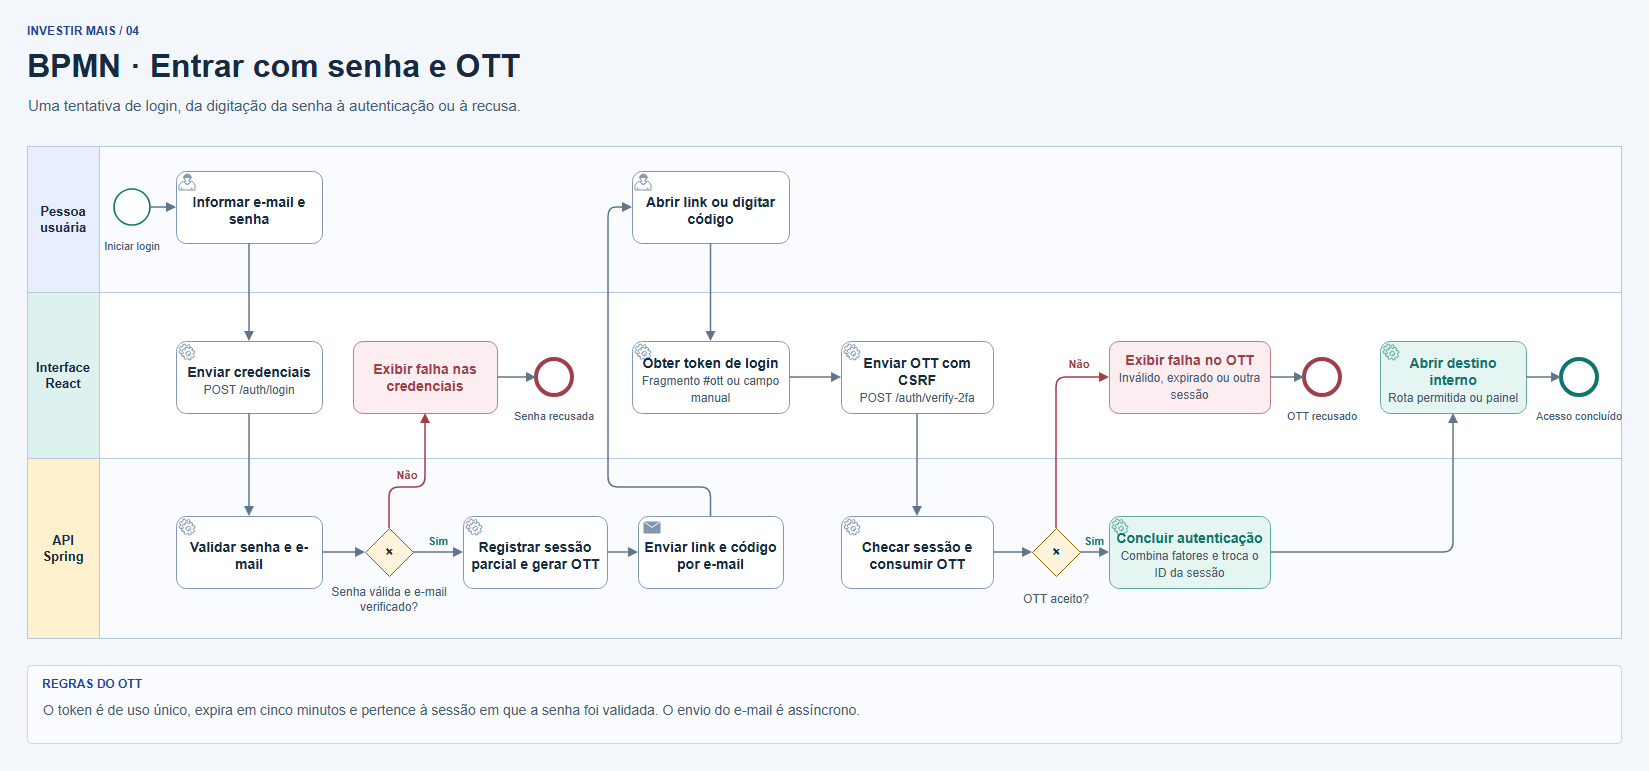
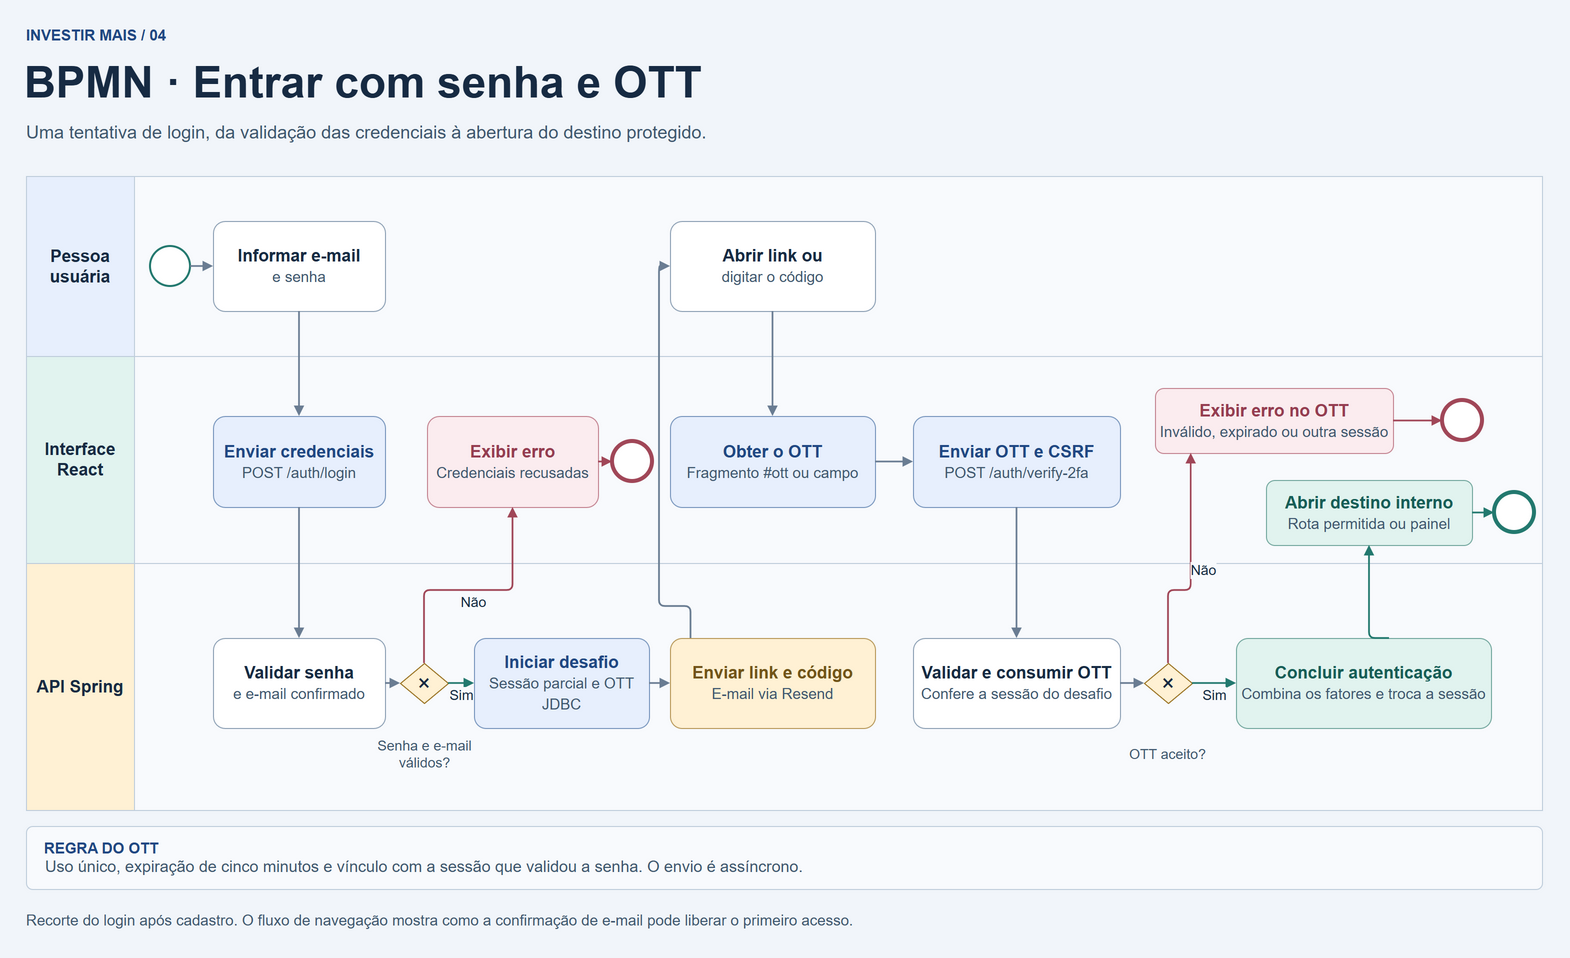
docs: add project diagrams and architecture documentation

diff --git a/docs/diagrama-de-classes.md b/docs/diagrama-de-classes.md
@@ -1,72 +1,38 @@
 # Diagramas do Investir Mais
 
-Os diagramas de domínio e acesso também aparecem no [README principal](../README.md#diagramas).
+Abra o [arquivo editável do Draw.io](diagramas/investir-mais.drawio) e selecione uma das cinco abas. O [README principal](../README.md#diagramas) inclui prévias dos cinco diagramas.
 
 | Diagrama | O que mostra |
 | --- | --- |
-| [Classes de domínio](diagramas/classes-de-dominio.png) | Entidades JPA, atributos, multiplicidades e regras de persistência. |
-| [BPMN de acesso](diagramas/bpmn-login-ott.png) | Uma tentativa de login com senha e token de uso único (OTT). |
+| [01 · Classes de domínio](diagramas/classes-de-dominio.png) | Entidades JPA, perfis, matrículas, progresso e regras de persistência. |
+| [02 · Classes da aplicação](diagramas/classes-da-aplicacao.png) | Dependências de conta, educação e envio de e-mails. |
+| [03 · Fluxo de navegação](diagramas/fluxo-de-navegacao.png) | Cadastro, primeiro acesso, login e páginas por perfil. |
+| [04 · BPMN de acesso](diagramas/bpmn-login-ott.png) | Uma tentativa de login com senha e token de uso único (OTT). |
+| [05 · Diagrama de arquitetura](diagramas/arquitetura.png) | Frontend, API, dados, e-mails e implantação de referência. |
 
 O diagrama de acesso usa BPMN 2.0 para documentar o processo. [Especificação BPMN 2.0.2 da OMG](https://www.omg.org/spec/BPMN/2.0.2/)
 
 ## Classes de domínio
 
-```mermaid
-classDiagram
-    direction LR
-
-    class User {
-        -UUID id
-        -String name
-        -Integer age
-        -String email
-        -String password
-        -UserRole role
-        -boolean emailVerified
-        -LocalDateTime deletedAt
-        -LocalDateTime createdAt
-        -LocalDateTime lastModifiedAt
-    }
-
-    class UserRole {
-        <<enumeration>>
-        ADMIN
-        TEACHER
-        STUDENT
-    }
-
-    class Course {
-        -UUID id
-        -String name
-        -String description
-        -LocalDateTime createdAt
-        -LocalDateTime updatedAt
-    }
-
-    class Lesson {
-        -UUID id
-        -String title
-        -String description
-        -String mediaUrl
-        -String thumbnailUrl
-    }
-
-    User "1" -- "0..*" Course : professor / courses
-    Course "1" -- "0..*" Lesson : course / lessons
-    User ..> UserRole : role
-```
-
 Cada curso referencia um usuário proprietário. Cada aula referencia um curso. A exclusão lógica se propaga de usuário para cursos e de curso para aulas. A senha é armazenada como hash Argon2 e fica fora da auditoria do Hibernate Envers. [User](../src/main/java/com/repositorio/investir_mais/domain/user/model/User.java), [Course](../src/main/java/com/repositorio/investir_mais/domain/education/model/Course.java), [Lesson](../src/main/java/com/repositorio/investir_mais/domain/education/model/Lesson.java)
+
+Matrículas e progresso pertencem a `User` e são persistidos como coleções de valores embutíveis. A matrícula é indexada por curso e a conclusão por aula. [User](../src/main/java/com/repositorio/investir_mais/domain/user/model/User.java)
+
+## Classes da aplicação
+
+O `UserController` atende o painel do professor com apoio de `CourseService`. O `AuthenticationEmailHandler` recebe os eventos de conta, monta as mensagens e as envia por meio do `ResendEmailSender`. [UserController](../src/main/java/com/repositorio/investir_mais/domain/user/controller/UserController.java), [AuthenticationEmailHandler](../src/main/java/com/repositorio/investir_mais/infrastructure/AuthenticationEmailHandler.java)
 
 ## Navegação e permissões
 
 O React Router consulta `/auth/me` antes de liberar a área protegida. Em caso de sessão ausente ou incompleta, a interface redireciona para o login com a rota de retorno. Após o OTT, abre o destino interno permitido ou o painel padrão. O cadastro público cria contas de aluno e exige confirmação de e-mail. [Rotas React](../frontend/investirMais/src/App.jsx), [Tela de login](../frontend/investirMais/src/pages/Login.jsx), [UserService](../src/main/java/com/repositorio/investir_mais/domain/user/service/UserService.java)
 
+Quando a pessoa confirma o link original no navegador do cadastro, a aplicação inicia a primeira sessão e abre o painel. Em outro navegador ou com um link reenviado, a confirmação libera o login. [UserController](../src/main/java/com/repositorio/investir_mais/domain/user/controller/UserController.java)
+
 | Perfil | O que pode fazer no catálogo |
 | --- | --- |
-| Aluno (`STUDENT`) | Consultar cursos e abrir aulas. |
-| Professor (`TEACHER`) | Consultar o catálogo, criar cursos e gerenciar os próprios cursos e suas aulas. |
-| Admin (`ADMIN`) | Consultar o catálogo, criar cursos e gerenciar os cursos e aulas de qualquer proprietário. |
+| Aluno (`STUDENT`) | Consultar cursos, matricular-se e registrar a conclusão de aulas. |
+| Professor (`TEACHER`) | Gerenciar os próprios cursos e aulas e acompanhar indicadores. |
+| Admin (`ADMIN`) | Gerenciar o catálogo e os usuários. |
 
 Os três perfis usam o mesmo painel. A interface exibe as ações de acordo com o perfil e a propriedade, e o backend aplica as mesmas verificações nas operações de escrita. [Ações do catálogo](../frontend/investirMais/src/services/educationData.js), [CourseService](../src/main/java/com/repositorio/investir_mais/domain/education/service/CourseService.java), [LessonService](../src/main/java/com/repositorio/investir_mais/domain/education/service/LessonService.java)
 
@@ -75,3 +41,11 @@ Os três perfis usam o mesmo painel. A interface exibe as ações de acordo com 
 O BPMN usa três raias para mostrar as responsabilidades da pessoa usuária, do React e da API Spring. A API valida a senha e o e-mail verificado, registra o desafio na sessão parcial e dispara o envio de um link e um código por e-mail. A pessoa abre o link no navegador em que começou o login ou informa o código na tela. As duas opções chamam `POST /auth/verify-2fa` com proteção CSRF. O Spring consome o token válido, conclui a autenticação e troca o identificador da sessão. [SecurityConfig](../src/main/java/com/repositorio/investir_mais/infrastructure/SecurityConfig.java), [AuthenticationEmailHandler](../src/main/java/com/repositorio/investir_mais/infrastructure/AuthenticationEmailHandler.java), [Login.jsx](../frontend/investirMais/src/pages/Login.jsx)
 
 O recorte termina quando o acesso é concluído ou quando as credenciais ou o OTT são recusados. A etapa de abertura pressupõe que a mensagem chegou. O [fluxo de navegação](../README.md#fluxo-de-navegação) descreve o primeiro acesso após o cadastro.
+
+## Arquitetura
+
+O frontend React chama a API Spring Boot. O PostgreSQL armazena os dados do domínio, os tokens e as publicações de eventos. O Redis mantém sessões e contadores de autenticação. A API envia e-mails via Resend, e o navegador carrega o player das aulas diretamente do YouTube. [Configuração da aplicação](../src/main/resources/application.properties), [Cliente Resend](../src/main/java/com/repositorio/investir_mais/infrastructure/ResendEmailSender.java)
+
+O proxy Caddy no Railway é a implantação de referência descrita na [PR #45](https://github.com/GabrielYYM/INVESTIR-MAIS/pull/45).
+
+Os ícones de tecnologia estão incorporados ao arquivo editável. [Simple Icons](https://github.com/simple-icons/simple-icons), [Devicon](https://github.com/devicons/devicon)

diff --git a/README.md b/README.md
@@ -54,13 +54,19 @@ INVESTIR-MAIS/
 
 ## Diagramas
 
-Os diagramas do domínio e do login podem ser abertos em tamanho original. A [documentação da arquitetura](docs/diagrama-de-classes.md) relaciona cada visão ao código.
+O [arquivo editável do Draw.io](docs/diagramas/investir-mais.drawio) reúne cinco abas com as classes de domínio, as classes da aplicação, a navegação, o BPMN do login e a arquitetura. A [documentação dos diagramas](docs/diagrama-de-classes.md) relaciona cada visão ao código.
+
+### Arquitetura
+
+[![Arquitetura do Investir Mais com React, Spring Boot, PostgreSQL, Redis e Resend](docs/diagramas/arquitetura.png)](docs/diagramas/arquitetura.png)
 
 ### Fluxo de navegação
 
 - O cadastro público cria uma conta de aluno. Ao confirmar o e-mail original no navegador do cadastro, o usuário entra no painel. Em outro navegador, ou com um link reenviado, a página confirma a conta e oferece o login. A recuperação usa um código separado para definir a nova senha.
 - Uma rota protegida verifica a sessão com `GET /auth/me`. Sem acesso, o React redireciona ao login e guarda a rota solicitada. Após os dois fatores, o navegador abre um destino interno permitido ou o painel.
 - A área autenticada oferece painel, catálogo, curso, aula e perfil. Professor e administrador veem ações de gestão conforme suas permissões. A saída encerra a sessão no backend.
+
+[![Fluxo de navegação do cadastro e login à área autenticada](docs/diagramas/fluxo-de-navegacao.png)](docs/diagramas/fluxo-de-navegacao.png)
 
 ### BPMN do login com senha e OTT
 
@@ -75,15 +81,18 @@ Os diagramas do domínio e do login podem ser abertos em tamanho original. A [do
 
 - `User` representa a conta e seu perfil `UserRole`. A senha é persistida como hash Argon2id e fica fora das revisões Envers.
 - Cada `Course` tem um usuário proprietário e pode ter zero ou mais aulas. Cada `Lesson` pertence a exatamente um curso e guarda os endereços de mídia e miniatura.
+- `User` mantém matrículas por curso e progresso por aula como coleções de valores embutíveis.
 - A exclusão é lógica. Excluir um curso propaga a exclusão às aulas. Excluir uma conta pelo serviço também exclui logicamente os cursos e aulas vinculados.
 
-[![Classes User, Course, Lesson e UserRole com atributos e cardinalidades](docs/diagramas/classes-de-dominio.png)](docs/diagramas/classes-de-dominio.png)
+[![Entidades de domínio, perfis, matrículas e progresso com atributos e cardinalidades](docs/diagramas/classes-de-dominio.png)](docs/diagramas/classes-de-dominio.png)
 
 ### Classes da aplicação
 
 - Na área de conta, `UserController` e `AuthenticationController` expõem operações de usuário e sessão. `UserService` concentra as regras da conta e usa `AccountSecurityService` para tokens de confirmação e recuperação e para revogação de sessões.
 - No catálogo, controllers chamam `CourseService` e `LessonService`. Os serviços aplicam regras de permissão e propriedade, usam repositórios JPA e mapeiam entidades para DTOs com MapStruct.
 - O `AuthenticationEmailHandler` envia os e-mails transacionais pela API do Resend.
+
+[![Classes da aplicação para conta, educação e envio de e-mails](docs/diagramas/classes-da-aplicacao.png)](docs/diagramas/classes-da-aplicacao.png)
 
 ## Execução local
 
